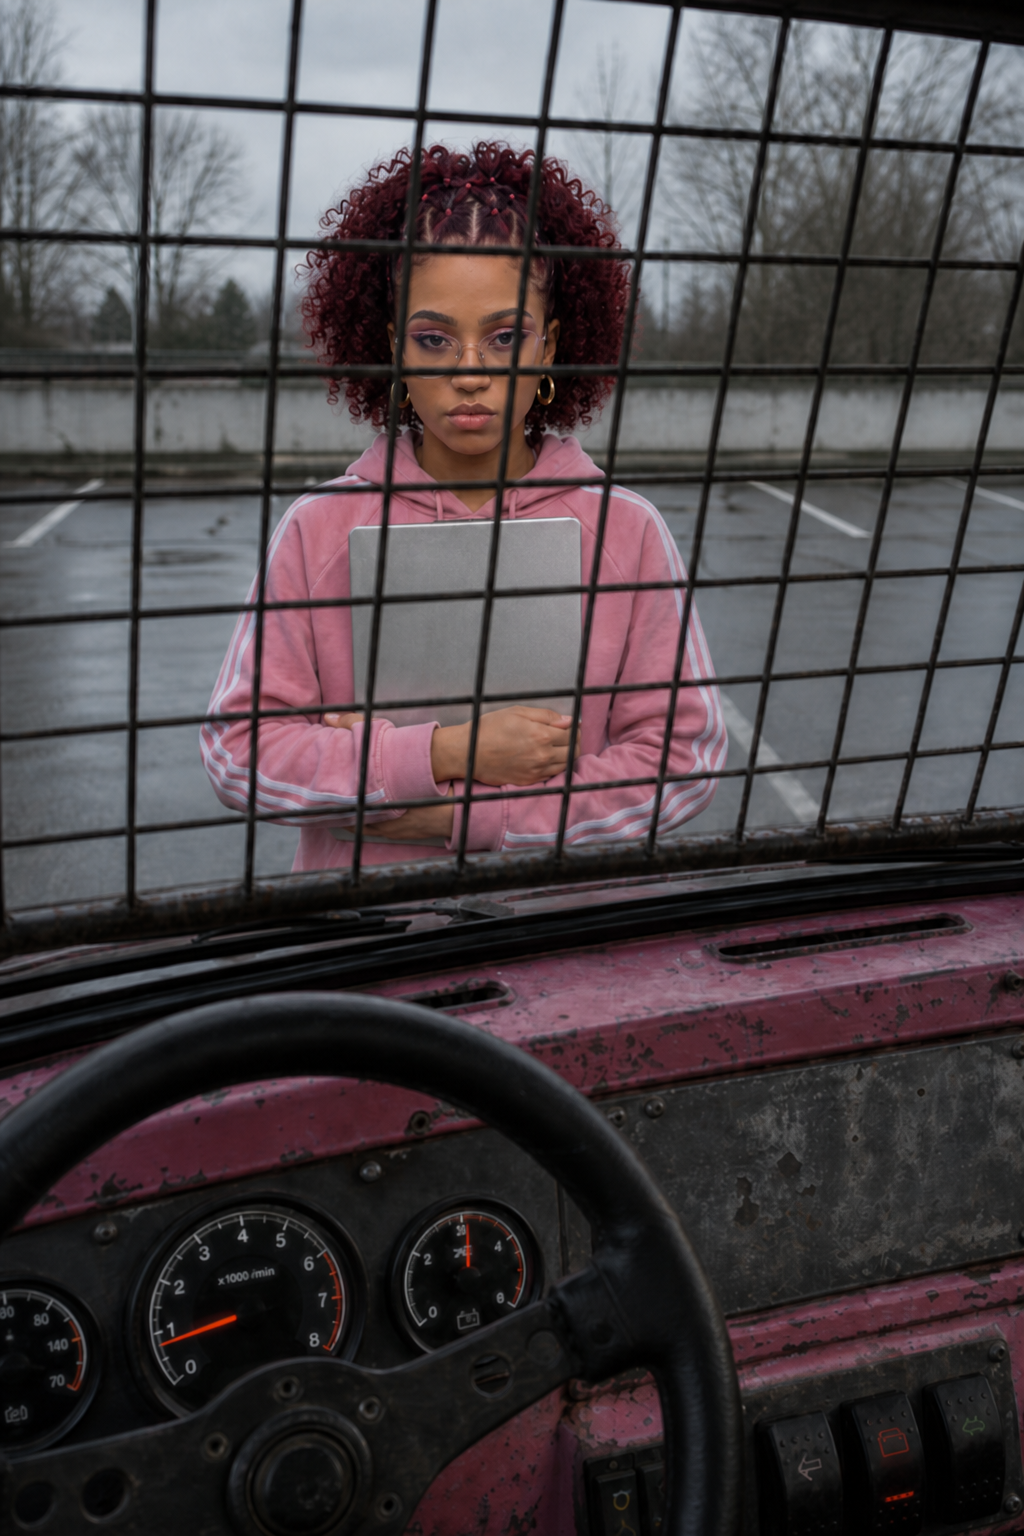
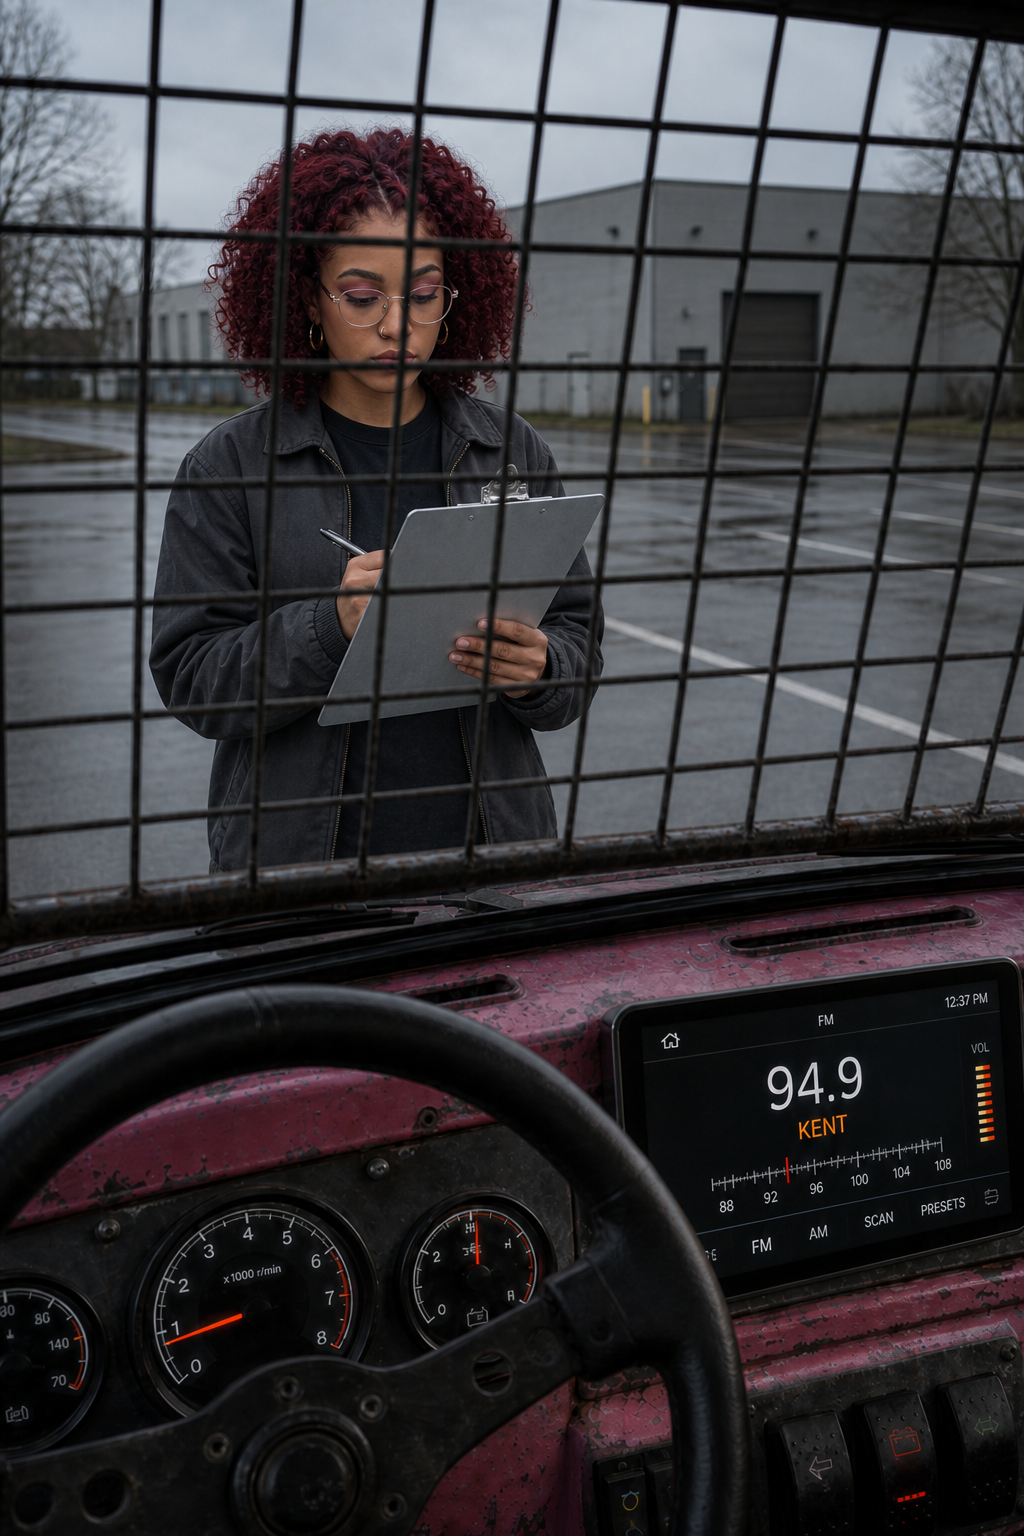
Reshoot II-011 in a work jacket, writing, with the lot building and the dash radio.
Ali is not locked to the pink hoodie — hair and clothes follow the card, face stays.

diff --git a/src/game.js b/src/game.js
@@ -150,7 +150,7 @@ function sceneFragment(scene) {
 }
 
 function imageUrl(cardId) {
-  return "/api/run/image/" + encodeURIComponent(cardId) + "?v=a7";
+  return "/api/run/image/" + encodeURIComponent(cardId) + "?v=a8";
 }
 
 function cargoFrom(state) {

diff --git a/pack/01_BIBLE.md b/pack/01_BIBLE.md
@@ -33,7 +33,7 @@ Three sensory rules. Everything mechanical derives from these.
 Each has a different vehicle, different handling, different curriculum focus, and a different **fatal weakness** drawn from the PSDP crash-risk data. Rotate protagonist by act — the student must play all three.
 
 ### 3.1 ALI OKONJO — callsign **KILO** *(canon, do not restyle)*
-- **Age 17.** Cranberry-red tightly coiled hair, braided at the crown, worn either as a long thick braid or a shoulder-length curl-out. Wire-rim round glasses. Gold hoop earrings, small gold nose ring. Warm brown skin. Faded pink hoodie with white raglan stripes, or a black oversize tee. Flat affect, dry, does not perform emotion.
+- **Age 17.** Cranberry-red tightly coiled hair — crown braids, a long thick braid, or a loose shoulder-length curl-out; vary it per card. Wire-rim round glasses. Gold hoop earrings, small gold nose ring. Warm brown skin. Clothes vary: faded pink hoodie with white raglan stripes, black oversize tee, charcoal work jacket — never a pink jumpsuit, never the same look two cards in a row if a face is in frame. Flat affect, dry, does not perform emotion.
 - **Vehicle: THE PINK MENACE.** Baja-converted VW Beetle. Faded matte pink with oxidation. Riveted raw-steel door and quarter-panel plating. Welded steel mesh cages over every window and the windshield. Black tube bull bar with a wide flat plow blade. Oversize knobby tires, chrome slot wheels. Interior: cracked pink dash, worn black leather wheel, analog gauge cluster, aftermarket nav tablet, rocker switch bank.
 - **Handling:** light, quick, short wheelbase, excellent visibility, **terrible crash tolerance.**
 - **Weakness: SPEED.** She's fast, she knows it, and she has never once been wrong until she is. Her arc is the speeding arc — PSDP p.12: speeding was a factor in 30% of fatal teen crashes.

diff --git a/pack/03_IMAGE_COMPILER_PROMPT.md b/pack/03_IMAGE_COMPILER_PROMPT.md
@@ -73,10 +73,11 @@ You MUST:
 ## CANONICAL EXPANSIONS — paste these in full, never abbreviate
 
 ALI:
-  "a 17-year-old woman with warm brown skin, cranberry-red tightly coiled hair
-  braided at the crown, round wire-rim glasses, small gold hoop earrings and a
-  small gold nose ring, wearing a faded pink hoodie with white raglan stripes,
-  calm flat expression"
+  "a 17-year-old woman with warm brown skin, cranberry-red tightly coiled hair,
+  round wire-rim glasses, small gold hoop earrings and a small gold nose ring,
+  calm flat expression. Face, glasses, and jewelry are locked. Hairdo and
+  clothes follow the brief — hoodie, black tee, or work jacket; crown braids
+  or a loose curl-out. Never default her into a pink jumpsuit."
 
 PINK MENACE:
   "a classic VW Beetle, unmistakably a Beetle in silhouette — round fenders,
